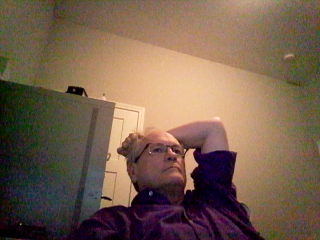
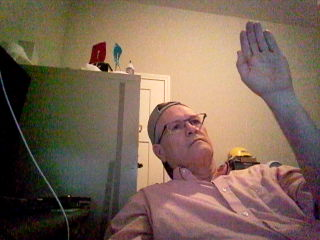
Working, Live Streaming Video Frame

diff --git a/Python/SpresenseApp.py b/Python/SpresenseApp.py
@@ -10,6 +10,7 @@ from PIL import Image, ImageTk
 import serial
 from serial.tools import list_ports
 import time
+import threading
 
 
 # -------------------------------------------------
@@ -21,10 +22,10 @@ import time
 # This routine will resize your image to match frame size, if you ask
 def show_the_image(location, image_file, resize):
     if location == 'streaming':
-        my_ui_image_frame_size = (250, 200)
+        my_ui_image_frame_size = streaming_ui_image_frame_size
         image_to_update = '-STREAMING_IMAGE-'
     else:
-        my_ui_image_frame_size = (500, 400)
+        my_ui_image_frame_size = still_ui_image_frame_size
         image_to_update = '-STILL_IMAGE-'
 
     im = Image.open(image_file, formats=None)
@@ -117,6 +118,53 @@ def calculate_jpeg_buffer_size(which_buffer):
 
 
 # -------------------------------------------------
+# Spresense streaming image mode
+# -------------------------------------------------
+def camera_steaming_mode(window, my_bg_color):
+    send_spresense_command('cam_stream_start\n', 5, 'enabled')
+    spresense_camera_data = 0
+
+    mprint('--- Image Size ---')
+    while int(values['-STREAMING_ACTIVE-']):   # The streaming active check_box
+        start = time.time()  # start time for FPS calculation
+        image_size = int(ser.readline())  # get the size (in bytes) of the image
+        mprint(image_size)
+        if image_size == 0:
+            mprint('jpeg buffer overflow')
+        if image_size > 0:
+            spresense_camera_data = ser.read(size=image_size)  # reads bytes from Spresense
+            image_tk = ImageTk.PhotoImage(data=spresense_camera_data)  # read raw array data and creates an imgtk
+            im_pil = ImageTk.getimage(image_tk)  # convert it to PIL image so we can resize it
+            resized_pil = im_pil.resize(streaming_ui_image_frame_size)  # resize it to fit streaming frame size
+            image = ImageTk.PhotoImage(image=resized_pil)  # convert it back to TK_image
+
+            window['-STREAMING_IMAGE-'].update(data=image)
+            endt = time.time()
+
+            fpsec = 1.0 / (endt - start)
+            window['-FPS-'].update('%.3f' % fpsec)
+
+    send_spresense_command('cam_stream_stop\n', 0, 'silent')  # tell the Spresense to stop streaming 2nd
+    ser.read_all()  # use this to flush the PC comm port buffer
+    f = open('my_streaming.jpg', 'wb')  # save this last frame into jpg streaming file
+    f.write(spresense_camera_data)
+    f.close()
+
+
+# -------------------------------------------------
+# PC to Spresense command handler
+# -------------------------------------------------
+def send_spresense_command(command, response_lines, print_mode):
+
+    spresense_command_response_data = ""
+
+    ser.write(command.encode())
+    for x in range(response_lines):
+        new_response = ser.readline().decode('ascii')
+        spresense_command_response_data = spresense_command_response_data + new_response
+
+
+# -------------------------------------------------
 # MAIN
 # Start up code and main routine starts here
 # jpeg_buffer_size = (img_width * img_height * bytes_per_pixel) / jpgbufsize_divisor
@@ -130,12 +178,14 @@ streaming_height = 64
 streaming_jpgbufsize_div = 7
 bytes_per_pixel = 2
 jpeg_buffers = 1
+streaming_ui_image_frame_size = (250, 200)
+still_ui_image_frame_size = (500, 400)
 
 jpeg_buffer_size = int((streaming_width * streaming_height * bytes_per_pixel) / streaming_jpgbufsize_div)
 
 my_tab1_layout = [
     [sg.Frame('Streaming', [
-        [sg.Checkbox('Active'), sg.T('Frame Rate:'),
+        [sg.Checkbox('Active', enable_events = True, key='-STREAMING_ACTIVE-'), sg.T('Frame Rate:'),
          sg.Combo(['5 FPS', '6 FPS', '7.5 FPS', '15 FPS', '30 FPS', '60 FPS', '120 FPS'], size=(8, 1),
                   default_value='5 FPS', readonly=True, enable_events=True, key='-PIX_FPS-')],
         [sg.Text('Image size in pixels:')],
@@ -174,13 +224,13 @@ left_column = [
 ]
 
 middle_column = [
-    [sg.Text('Streaming Frame - Fixed 250 x 200 pixels', pad=(100, 0))],
-    [sg.Image(size=(250, 200), pad=((100, 0), (0, 10)), key='-STREAMING_IMAGE-'),
+    [sg.Text('Streaming Frame - Fixed pixels:' + str(streaming_ui_image_frame_size), pad=(100, 0))],
+    [sg.Image(size=streaming_ui_image_frame_size, pad=((100, 0), (0, 10)), key='-STREAMING_IMAGE-'),
      sg.Text('Actual:'),
      sg.Text(size=(5, 1), text_color='black', background_color=my_bg_color, key='-FPS-'),
      sg.Text('FPS')],
-    [sg.Text('Still Image Frame - Fixed 500 x 400 pixels', pad=(0, 0))],
-    [sg.Image(size=(500, 400), pad=((0, 0), (0, 0)), key='-STILL_IMAGE-')],
+    [sg.Text('Still Image Frame - Fixed pixels:' + str(still_ui_image_frame_size), pad=(0, 0))],
+    [sg.Image(size=still_ui_image_frame_size, pad=((0, 0), (0, 0)), key='-STILL_IMAGE-')],
     [sg.Text('Working images above are fixed sizes.', justification='center', expand_x=True)],
     [sg.Text('To view full resolution images, see filenames to the right.', justification='center', expand_x=True)]
 ]
@@ -219,6 +269,7 @@ while True:  # The Event Loop
         break
     if event == sg.WIN_CLOSED or event == 'Exit':
         ser.close()
+        send_spresense_command('cam_stream_stop\n', 0, 'silent')  # tell the Spresense to stop streaming 2nd
         break
     elif event == '-STREAMING_WIDTH-GOT_FOCUS':
         window['-STAT_BAR-'].update('Status Bar: Streaming Image Width Range: 96-2592 pixels for ISX012 image sensor')
@@ -233,6 +284,11 @@ while True:  # The Event Loop
     elif event == '-STREAMING_JPEG_SIZE_DIV-':
         streaming_jpgbufsize_div = int(values['-STREAMING_JPEG_SIZE_DIV-'])
         calculate_jpeg_buffer_size('streaming')
+    elif event == '-STREAMING_ACTIVE-':
+        print('CheckBox:', values['-STREAMING_ACTIVE-'])
+        if values['-STREAMING_ACTIVE-']:
+            threading.Thread(target=camera_steaming_mode, args=(window, my_bg_color)).start()
+
 
 
 window.close()
